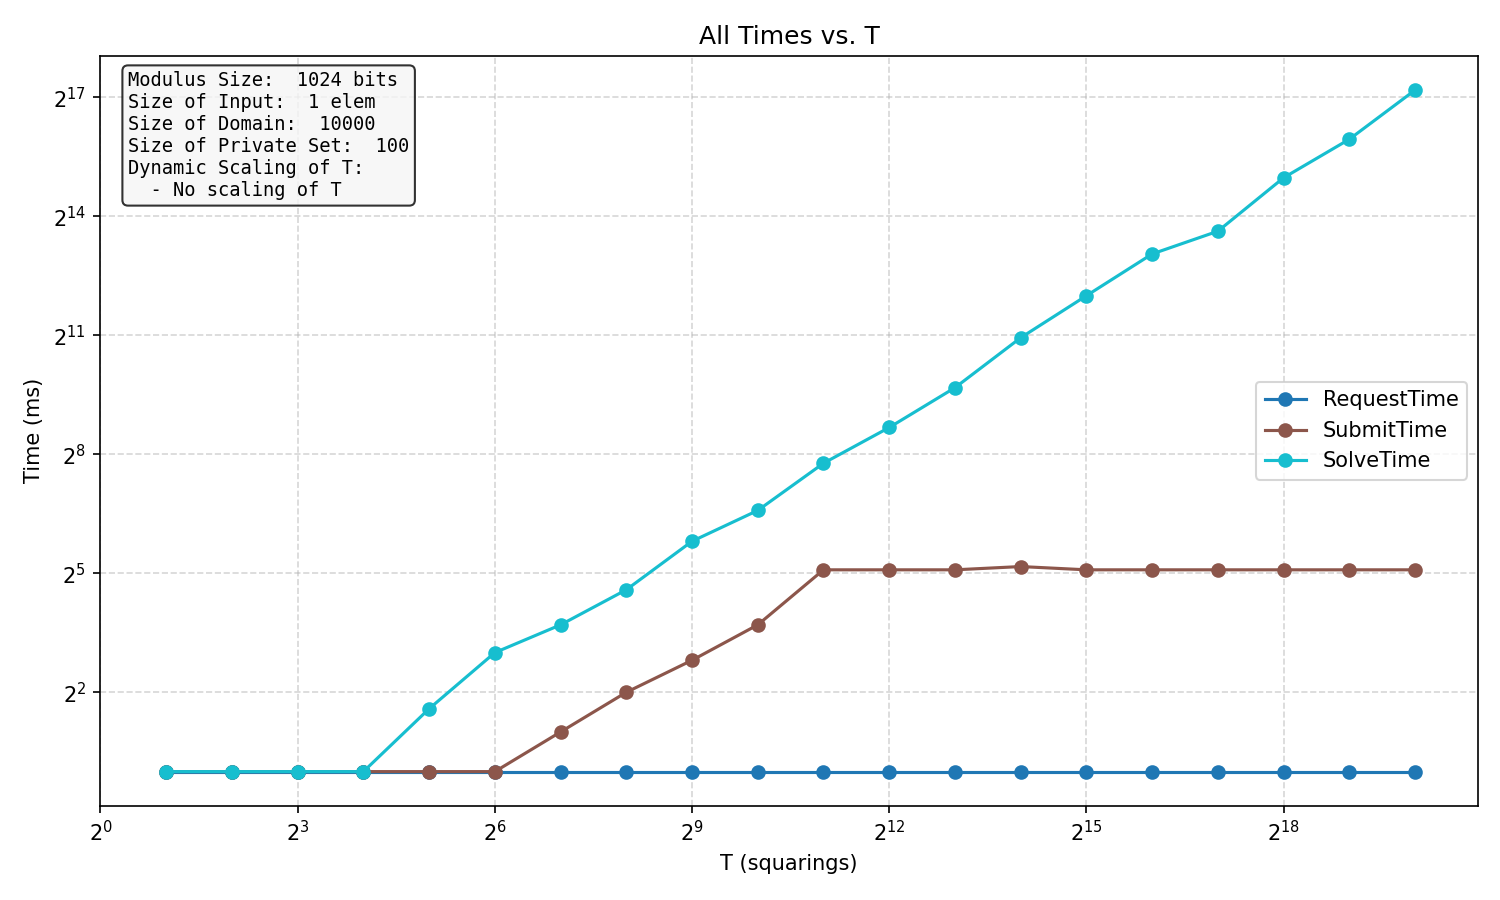
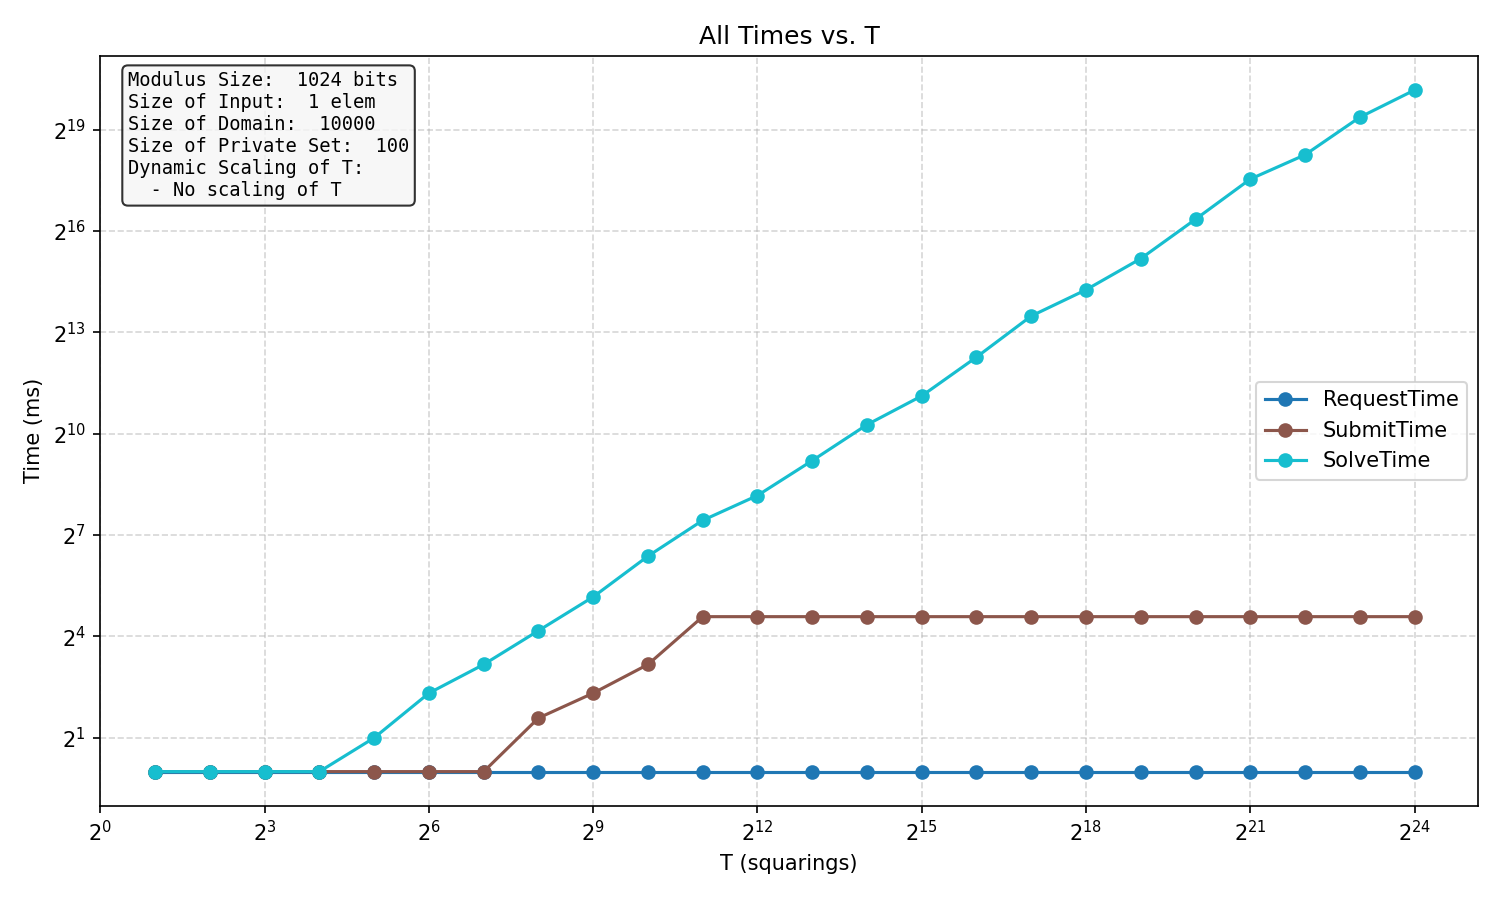
extended to more Ts in experiment

diff --git a/TLP_INTEL_SGX/eval.py b/TLP_INTEL_SGX/eval.py
@@ -77,21 +77,21 @@ def gather_data():
     os.makedirs(FIG_DIR, exist_ok=True)
 
     # -- experiment 1: vary T_exp, single element request --
-    # out = f"{DATA_DIR}/vary_T_exp.csv"
-    # if os.path.exists(out):
-    #     os.remove(out)
-    # for T_exp in range(1, 21):
-    #     run_once(
-    #         elements=[42],
-    #         log=2,
-    #         log_file="vary_T_exp",
-    #         T_exp=T_exp,
-    #         T_baseline_comp=0,
-    #         T_input_size_comp=0,
-    #         T_private_set_comp=0,
-    #         private_set_size=100,
-    #     )
-    #     print(f"vary_T_exp: T_exp={T_exp} done")
+    out = f"{DATA_DIR}/vary_T_exp.csv"
+    if os.path.exists(out):
+        os.remove(out)
+    for T_exp in range(1, 25):
+        run_once(
+            elements=[42],
+            log=2,
+            log_file="vary_T_exp",
+            T_exp=T_exp,
+            T_baseline_comp=0,
+            T_input_size_comp=0,
+            T_private_set_comp=0,
+            private_set_size=100,
+        )
+        print(f"vary_T_exp: T_exp={T_exp} done")
 
     # -- experiment 2: vary input size, constant T vs linear T --
     # out = f"{DATA_DIR}/vary_input_size.csv"
@@ -128,12 +128,12 @@ def gather_data():
     #         private_set_size=100,
     #     )
     # print("cycles done")
-    with open(f"{DATA_DIR}/cycles_py.csv", "w", newline="") as f:
-        writer = csv.writer(f)
-        writer.writerow(["T","Time","Cycles"])
-        for t in range(5,20):
-            cycles, ms = measure(2**t)
-            writer.writerow([(2**t), ms, cycles])
+    # with open(f"{DATA_DIR}/cycles_py.csv", "w", newline="") as f:
+    #     writer = csv.writer(f)
+    #     writer.writerow(["T","Time","Cycles"])
+    #     for t in range(5,20):
+    #         cycles, ms = measure(2**t)
+    #         writer.writerow([(2**t), ms, cycles])
 
 #     out = f"{DATA_DIR}/vary_exp_cycles.csv"
 #     if os.path.exists(out):
@@ -604,10 +604,10 @@ def plot_encl_data(df, y_cols, title, ylabel, xlabel, logy, save_path=None):
     plt.close(fig)
 
 if __name__ == "__main__":
-    gather_data()
+    # gather_data()
 
-#     df_T = pd.read_csv(f"{DATA_DIR}/vary_T_exp.csv")
-#     df_T.columns = df_T.columns.str.strip()
+    df_T = pd.read_csv(f"{DATA_DIR}/vary_T_exp.csv")
+    df_T.columns = df_T.columns.str.strip()
 # 
 #     plot_T(
 #         df_T,
@@ -627,15 +627,15 @@ if __name__ == "__main__":
 #         logy=False,
 #         save_path=f"{FIG_DIR}/all_times_vs_T.png"
 #     )
-#     plot_T(
-#         df_T,
-#         y_cols=["RequestTime","SubmitTime","SolveTime"],
-#         title="All Times vs. T",
-#         ylabel="Time (ms)",
-#         xlabel="T (squarings)",
-#         logy=True,
-#         save_path=f"{FIG_DIR}/all_times_vs_T_log.png"
-#     )
+    plot_T(
+        df_T,
+        y_cols=["RequestTime","SubmitTime","SolveTime"],
+        title="All Times vs. T",
+        ylabel="Time (ms)",
+        xlabel="T (squarings)",
+        logy=True,
+        save_path=f"{FIG_DIR}/all_times_vs_T_log.png"
+    )
 # 
 #     df_RS = pd.read_csv(f"{DATA_DIR}/vary_input_size.csv")
 #     df_RS.columns = df_RS.columns.str.strip()
@@ -658,10 +658,10 @@ if __name__ == "__main__":
 #         save_path=f"{FIG_DIR}/all_times_vs_reqsize.png"
 #     )
 # 
-    df_C = pd.read_csv(f"{DATA_DIR}/cycles.csv.cycles.csv")
-    df_C.columns = df_C.columns.str.strip()
-    cap = df_C.groupby("T")["Cycles"].transform(lambda x: x.quantile(0.99))
-    df_C["Cycles"] = df_C["Cycles"].clip(upper=cap)
+#     df_C = pd.read_csv(f"{DATA_DIR}/cycles.csv.cycles.csv")
+#     df_C.columns = df_C.columns.str.strip()
+#     cap = df_C.groupby("T")["Cycles"].transform(lambda x: x.quantile(0.99))
+#     df_C["Cycles"] = df_C["Cycles"].clip(upper=cap)
 # 
 #     plot_cycles_variance(
 #         df_C,
@@ -680,20 +680,20 @@ if __name__ == "__main__":
 #         save_path=f"{FIG_DIR}/cycles_box_plot.png"
 #     )
 # 
-    df_Cpy = pd.read_csv(f"{DATA_DIR}/cycles_py.csv")
-    df_Cpy.columns = df_Cpy.columns.str.strip()
-
-    plot_implementations(
-        data=[(df_C, "mbedtls squaring loop"),(df_Cpy, "python pow(x, 2**T, N)")],
-        title="Implementation Comparison of Puzzle Computation",
-        save_path=f"{FIG_DIR}/cycles_impl_comp.png"
-    )
-
-    plot_implementations(
-        data=[(df_Cpy, "python puzzle computation")],
-        title="Total Cycles vs. T",
-        save_path=f"{FIG_DIR}/cycles_python.png"
-    )
+#     df_Cpy = pd.read_csv(f"{DATA_DIR}/cycles_py.csv")
+#     df_Cpy.columns = df_Cpy.columns.str.strip()
+# 
+#     plot_implementations(
+#         data=[(df_C, "mbedtls squaring loop"),(df_Cpy, "python pow(x, 2**T, N)")],
+#         title="Implementation Comparison of Puzzle Computation",
+#         save_path=f"{FIG_DIR}/cycles_impl_comp.png"
+#     )
+# 
+#     plot_implementations(
+#         data=[(df_Cpy, "python puzzle computation")],
+#         title="Total Cycles vs. T",
+#         save_path=f"{FIG_DIR}/cycles_python.png"
+#     )
 # 
 #     df_E = pd.read_csv(f"{DATA_DIR}/vary_exp_cycles.csv")
 #     df_E.columns = df_E.columns.str.strip()